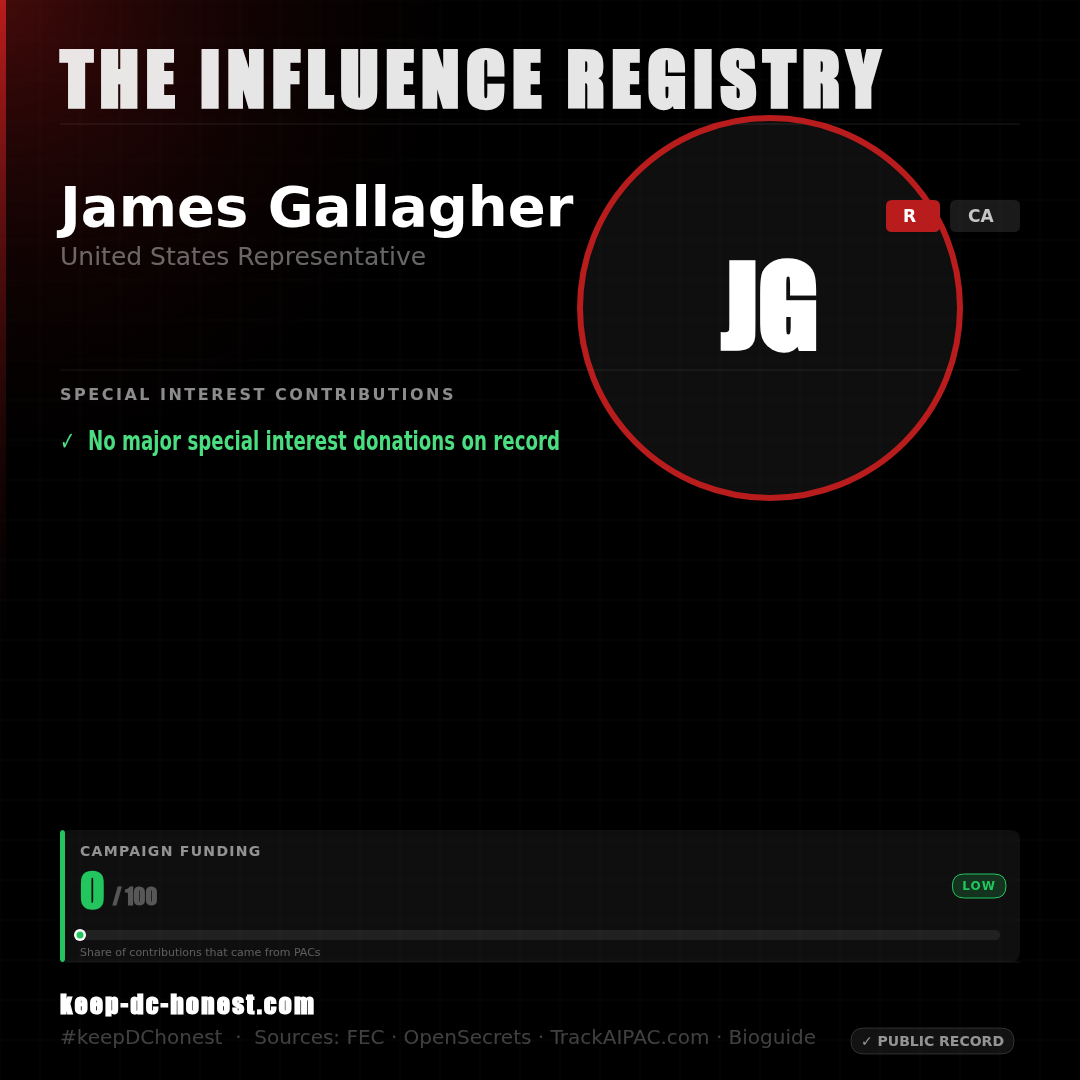
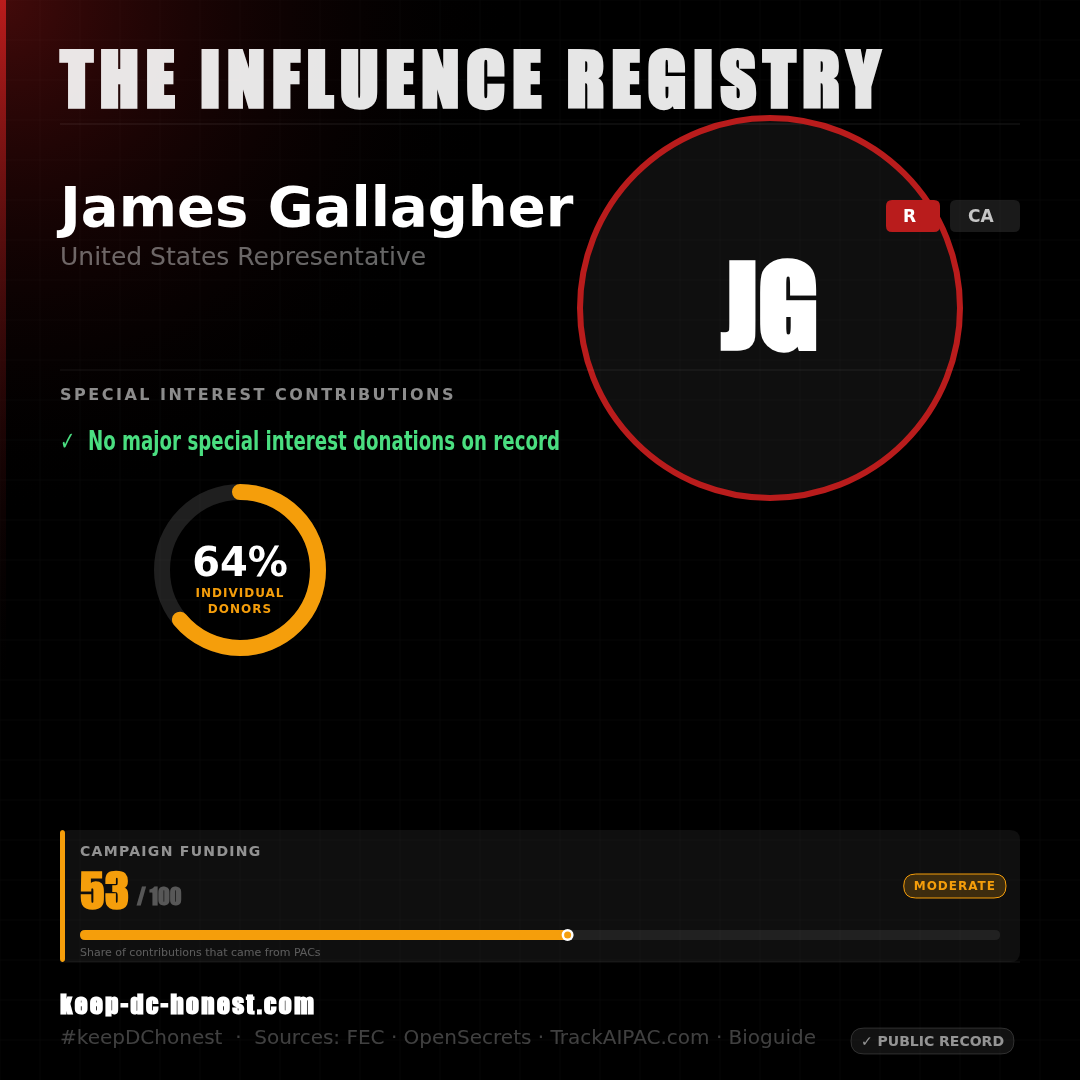
Regenerate scores, share cards, static pages, sitemap

Changed region(s): [[0.1222, 0.4278, 0.3056, 0.6111], [0.0306, 0.7639, 0.55, 0.8861], [0.825, 0.7944, 0.9472, 0.8556]]

diff --git a/member/lois-frankel/index.html b/member/lois-frankel/index.html
@@ -152,7 +152,7 @@ body{margin:0;font-family:-apple-system,BlinkMacSystemFont,'Segoe UI',sans-serif
   <table class="profile-table">
     <thead><tr><th scope="col">Category</th><th scope="col">Amount</th><th scope="col">Source</th></tr></thead>
     <tbody>
-      <tr><th scope="row">Total raised (career)</th><td>$15,322,731</td><td class="src">FEC</td></tr><tr><th scope="row">Corporate / special interest total</th><td>$3,822,277</td><td class="src">FEC + OpenSecrets</td></tr><tr><th scope="row">AIPAC / pro-Israel</th><td>$860,618</td><td class="src">FEC + OpenSecrets</td></tr><tr><th scope="row">Oil &amp; gas / fossil</th><td>$36,797</td><td class="src">FEC + OpenSecrets</td></tr><tr><th scope="row">Pharma / healthcare</th><td>$636,049</td><td class="src">FEC + OpenSecrets</td></tr><tr><th scope="row">Defense</th><td>$153,283</td><td class="src">FEC + OpenSecrets</td></tr><tr><th scope="row">Wall Street / finance</th><td>$1,832,507</td><td class="src">FEC + OpenSecrets</td></tr><tr><th scope="row">Big Tech</th><td>$303,023</td><td class="src">FEC + OpenSecrets</td></tr>
+      <tr><th scope="row">Total raised (career)</th><td>$15,323,781</td><td class="src">FEC</td></tr><tr><th scope="row">Corporate / special interest total</th><td>$3,822,277</td><td class="src">FEC + OpenSecrets</td></tr><tr><th scope="row">AIPAC / pro-Israel</th><td>$860,618</td><td class="src">FEC + OpenSecrets</td></tr><tr><th scope="row">Oil &amp; gas / fossil</th><td>$36,797</td><td class="src">FEC + OpenSecrets</td></tr><tr><th scope="row">Pharma / healthcare</th><td>$636,049</td><td class="src">FEC + OpenSecrets</td></tr><tr><th scope="row">Defense</th><td>$153,283</td><td class="src">FEC + OpenSecrets</td></tr><tr><th scope="row">Wall Street / finance</th><td>$1,832,507</td><td class="src">FEC + OpenSecrets</td></tr><tr><th scope="row">Big Tech</th><td>$303,023</td><td class="src">FEC + OpenSecrets</td></tr>
     </tbody>
   </table>
 </section>

diff --git a/member/danny-davis/index.html b/member/danny-davis/index.html
@@ -152,7 +152,7 @@ body{margin:0;font-family:-apple-system,BlinkMacSystemFont,'Segoe UI',sans-serif
   <table class="profile-table">
     <thead><tr><th scope="col">Category</th><th scope="col">Amount</th><th scope="col">Source</th></tr></thead>
     <tbody>
-      <tr><th scope="row">Total raised (career)</th><td>$7,781,527</td><td class="src">FEC</td></tr><tr><th scope="row">Corporate / special interest total</th><td>$2,485,873</td><td class="src">FEC + OpenSecrets</td></tr><tr><th scope="row">AIPAC / pro-Israel</th><td>$60,360</td><td class="src">FEC + OpenSecrets</td></tr><tr><th scope="row">Oil &amp; gas / fossil</th><td>$29,500</td><td class="src">FEC + OpenSecrets</td></tr><tr><th scope="row">Pharma / healthcare</th><td>$902,995</td><td class="src">FEC + OpenSecrets</td></tr><tr><th scope="row">Defense</th><td>$46,585</td><td class="src">FEC + OpenSecrets</td></tr><tr><th scope="row">Wall Street / finance</th><td>$1,137,189</td><td class="src">FEC + OpenSecrets</td></tr><tr><th scope="row">Big Tech</th><td>$309,244</td><td class="src">FEC + OpenSecrets</td></tr>
+      <tr><th scope="row">Total raised (career)</th><td>$7,782,517</td><td class="src">FEC</td></tr><tr><th scope="row">Corporate / special interest total</th><td>$2,485,873</td><td class="src">FEC + OpenSecrets</td></tr><tr><th scope="row">AIPAC / pro-Israel</th><td>$60,360</td><td class="src">FEC + OpenSecrets</td></tr><tr><th scope="row">Oil &amp; gas / fossil</th><td>$29,500</td><td class="src">FEC + OpenSecrets</td></tr><tr><th scope="row">Pharma / healthcare</th><td>$902,995</td><td class="src">FEC + OpenSecrets</td></tr><tr><th scope="row">Defense</th><td>$46,585</td><td class="src">FEC + OpenSecrets</td></tr><tr><th scope="row">Wall Street / finance</th><td>$1,137,189</td><td class="src">FEC + OpenSecrets</td></tr><tr><th scope="row">Big Tech</th><td>$309,244</td><td class="src">FEC + OpenSecrets</td></tr>
     </tbody>
   </table>
 </section>

diff --git a/member/james-gallagher/index.html b/member/james-gallagher/index.html
@@ -145,6 +145,16 @@ body{margin:0;font-family:-apple-system,BlinkMacSystemFont,'Segoe UI',sans-serif
   
 
   
+<section class="profile-section" id="donations">
+  <h2>Donations & financial influence</h2>
+  <table class="profile-table">
+    <thead><tr><th scope="col">Category</th><th scope="col">Amount</th><th scope="col">Source</th></tr></thead>
+    <tbody>
+      <tr><th scope="row">Total raised (career)</th><td>$1,488,906</td><td class="src">FEC</td></tr>
+    </tbody>
+  </table>
+</section>
+
   
   
   

diff --git a/member/darline-graham/index.html b/member/darline-graham/index.html
@@ -145,6 +145,16 @@ body{margin:0;font-family:-apple-system,BlinkMacSystemFont,'Segoe UI',sans-serif
   
 
   
+<section class="profile-section" id="donations">
+  <h2>Donations & financial influence</h2>
+  <table class="profile-table">
+    <thead><tr><th scope="col">Category</th><th scope="col">Amount</th><th scope="col">Source</th></tr></thead>
+    <tbody>
+      <tr><th scope="row">Total raised (career)</th><td>$0</td><td class="src">FEC</td></tr>
+    </tbody>
+  </table>
+</section>
+
   
   
   
